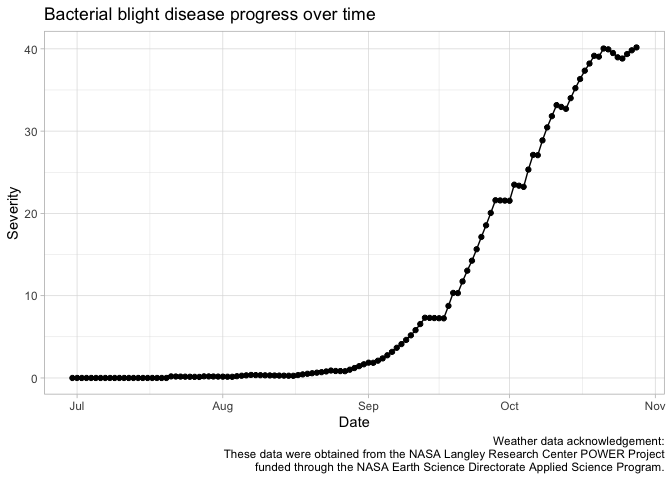
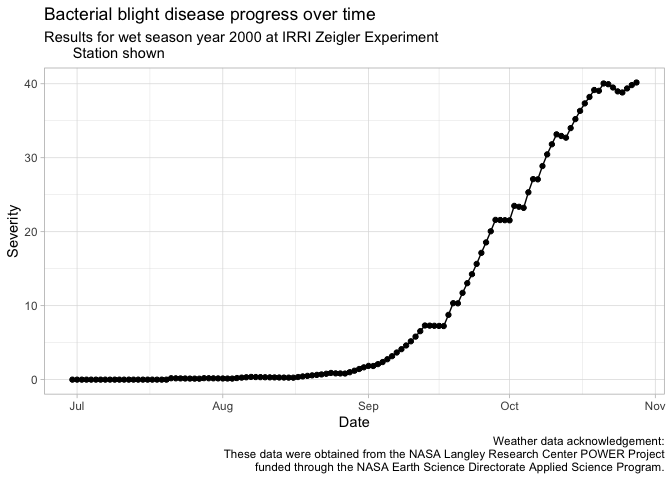
Update SEIR output and add subtitle to graph

diff --git a/README.md b/README.md
@@ -37,7 +37,7 @@ as long as it fits the model’s requirements.
 ``` r
 if (!require("remotes"))
   install.packages("remotes")
-remotes::install_github("adamshsparks/epirice"
+remotes::install_github("adamhsparks/epirice"
 )
 ```
 
@@ -60,7 +60,7 @@ library(epirice)
 wth
 ```
 
-    ##        YYYYMMDD DOY    TM    TN    TX  TDEW    RH  RAIN   LAT   LON
+    ##        YYYYMMDD DOY  TEMP  TMIN  TMAX  TDEW  RHUM  RAIN   LAT   LON
     ##   1: 2000-06-30 182 25.94 29.19 22.97 23.63 87.22 11.36 14.68 121.3
     ##   2: 2000-07-01 183 25.34 28.31 23.65 23.76 91.07 24.87 14.68 121.3
     ##   3: 2000-07-02 184 25.99 29.91 23.28 23.40 85.71 17.63 14.68 121.3
@@ -123,6 +123,8 @@ ggplot(data = bb,
   geom_line() +
   geom_point() +
   labs(title = "Bacterial blight disease progress over time",
+       subtitle = "Results for wet season year 2000 at IRRI Zeigler Experiment
+       Station shown",
        caption = "Weather data acknowledgement:\nThese data were obtained from the NASA Langley Research Center POWER Project\nfunded through the NASA Earth Science Directorate Applied Science Program.") +
   theme_light()
 ```
